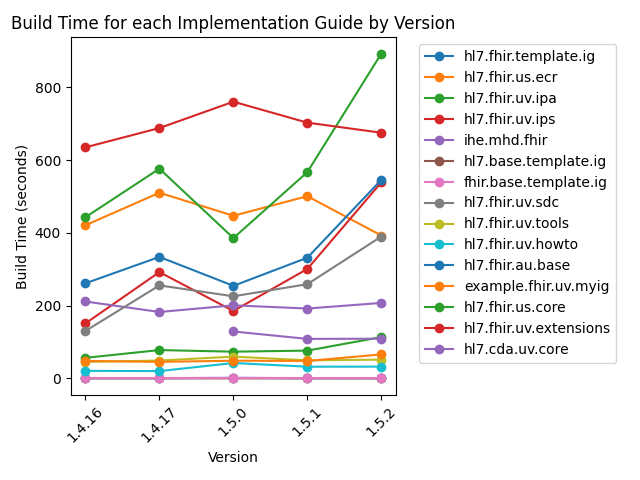
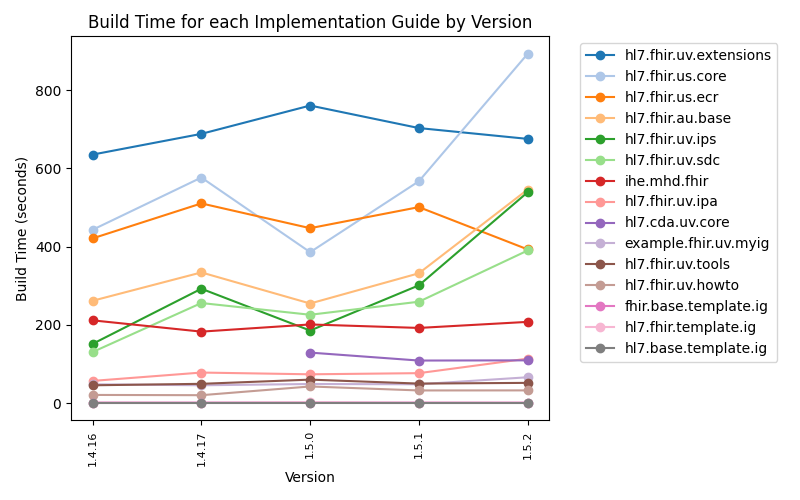
Update plot with dynamic width and better colors

diff --git a/.azure/plot-ig-builder-auto/plot-ig-builder-auto.py b/.azure/plot-ig-builder-auto/plot-ig-builder-auto.py
@@ -22,6 +22,8 @@ import matplotlib.pyplot as plt
 import requests
 import sys
 import os
+import numpy as np
+
 
 # Function to parse and sort version numbers
 def parse_version(version):
@@ -61,9 +63,6 @@ def main(source):
     # The latest version is the last one in the sorted list
     latest_version = sorted_versions[-1]
 
-    # ... [The script continues here. The rest of the script remains unchanged.]
-
-
     # Construct the filename using the version number
     filename = f"{latest_version}.png"
 
@@ -83,34 +82,94 @@ def main(source):
                 build_times[guide_name] = {}
             build_times[guide_name][version] = time
 
+    # Determine the number of unique guides to plot
+    num_guides = len(build_times)
+
+    # Define the colormaps
+    # More on colormaps: https://matplotlib.org/stable/gallery/color/colormap_reference.html
+    cmap1 = plt.get_cmap('tab20', 20) # This map has 20 distinct colors
+    cmap2 = plt.get_cmap('tab20b', 20) # This map has 20 distinct colors too
+    cmap3 = plt.get_cmap('tab20c', 20)
+
+    # Initialize an empty list to store the colors
+    combined_colors = []
+
+    # Function to add colors to the list from a given colormap
+    def add_colors_from_cmap(cmap, num_colors, color_list):
+        for i in range(num_colors):
+            color_list.append(cmap(i))
+
+    # Add colors from each colormap to the combined list
+    add_colors_from_cmap(cmap1, 20, combined_colors)
+    add_colors_from_cmap(cmap2, 20, combined_colors)
+    #add_colors_from_cmap(cmap3, 20, combined_colors)
+
     # Create the visualization
+    color_index = 0
+
+    # Assuming 'build_times' is a dictionary where keys are guide names and values are dictionaries
+    # of version: build_time pairs.
+    # Start by collecting all timings and labels
+    timing_label_pairs = []
+
     for guide, times in build_times.items():
+        # Extract the total build time for the current guide
+        total_build_time = sum(times.values())
+        # Append the total build time and the guide label to the list as a tuple
+        timing_label_pairs.append((total_build_time, guide))
+
+    # Sort the list by timings in descending order
+    timing_label_pairs.sort(reverse=True, key=lambda x: x[0])
+
+    # Now we plot in the sorted order and collect handles for the legend
+    handles = []
+    for total_build_time, guide in timing_label_pairs:
+        times = build_times[guide]
         sorted_items = sorted(times.items())
         versions = [item[0] for item in sorted_items]
         timings = [item[1] for item in sorted_items]
+        
+        # Use the next color in the color list
+        handle, = plt.plot(versions, timings, marker='o', label=guide, color=combined_colors[color_index % len(combined_colors)])
+        handles.append(handle)
+        color_index += 1
 
-        plt.plot(versions, timings, marker='o', label=guide)
+    # Update the legend with the sorted handles
+    plt.legend(handles=handles, bbox_to_anchor=(1.05, 1), loc='upper left')
 
     plt.ylabel('Build Time (seconds)')  # Update label to reflect new units
     plt.xlabel('Version')
     plt.title('Build Time for each Implementation Guide by Version')
-    plt.legend(bbox_to_anchor=(1.05, 1), loc='upper left')
-    plt.xticks(rotation=45)
+   
+    # Set x-axis ticks to correspond to the actual versions present in the data
+    plt.xticks(ticks=np.arange(len(sorted_versions)), labels=sorted_versions, rotation=90, fontsize=8)
+
+    # Assume 'sorted_versions' is the list of version strings from the JSON data
+    base_width = 8  # Base width for up to 10 versions
+    additional_width_per_version = 0.2  # Additional width for each version above 10
+    max_reasonable_width = 30  # Maximum width to keep the plot reasonable
+    fixed_height = 5 # Fixed height in inches
+
+    # Calculate the dynamic width based on the number of versions
+    dynamic_width = calculate_dynamic_width(sorted_versions, base_width, additional_width_per_version, max_reasonable_width)
+
+    # Set the dynamic figure size
+    plt.gcf().set_size_inches(dynamic_width, fixed_height)
     plt.tight_layout()
-
-    # NEW: Specify the directory and create it if it doesn't exist
-    # directory = "../data/publisher-build-time-trends"
-    # if not os.path.exists(directory):
-    #    os.makedirs(directory)
-
-    # NEW: Modify the filename to include the directory path
-    # filename = os.path.join(directory, filename)
 
     # Save the figure
     plt.savefig(args.output)
     # plt.show()
 
     plt.close(args.output)
+
+def calculate_dynamic_width(versions, base_width, additional_width_per_version, max_width):
+    num_versions = len(versions)
+    if num_versions <= 10:
+        return base_width
+    else:
+        additional_width = (num_versions - 10) * additional_width_per_version
+        return min(base_width + additional_width, max_width)
 
 if __name__ == "__main__":
     # Set up the command-line argument parser
